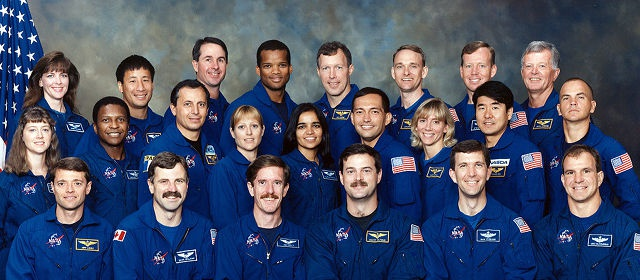
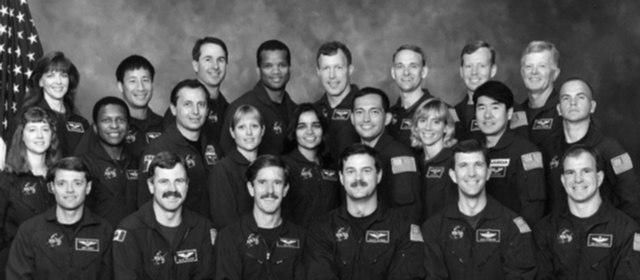
Added Graysacle and HSVscale in OpenCV basics

diff --git a/app.js b/app.js
@@ -1,5 +1,6 @@
 const cv = require('opencv');
 
+//Using cv#readImage() and Matrix#save()
 cv.readImage("./img/nasa.jpg",function(err,img){
 
   if(err){
@@ -13,6 +14,20 @@ cv.readImage("./img/nasa.jpg",function(err,img){
     throw new Error('Image has no size');
   }
 
+
+
+  //Using Matrix#Grayscale()
+
+  img.convertGrayscale();
+  img.gaussianBlur([3,3]);
   img.save("./img/myNewImage.jpg");
+
+  // img.save("./img/myNewImage1.jpg");
+  //
+  //
+  // // Using Matrix#HSVscale()
+  //
+  // img.convertHSVscale();
+  // img.save("./img/myNewImage2.jpg");
 
 });
